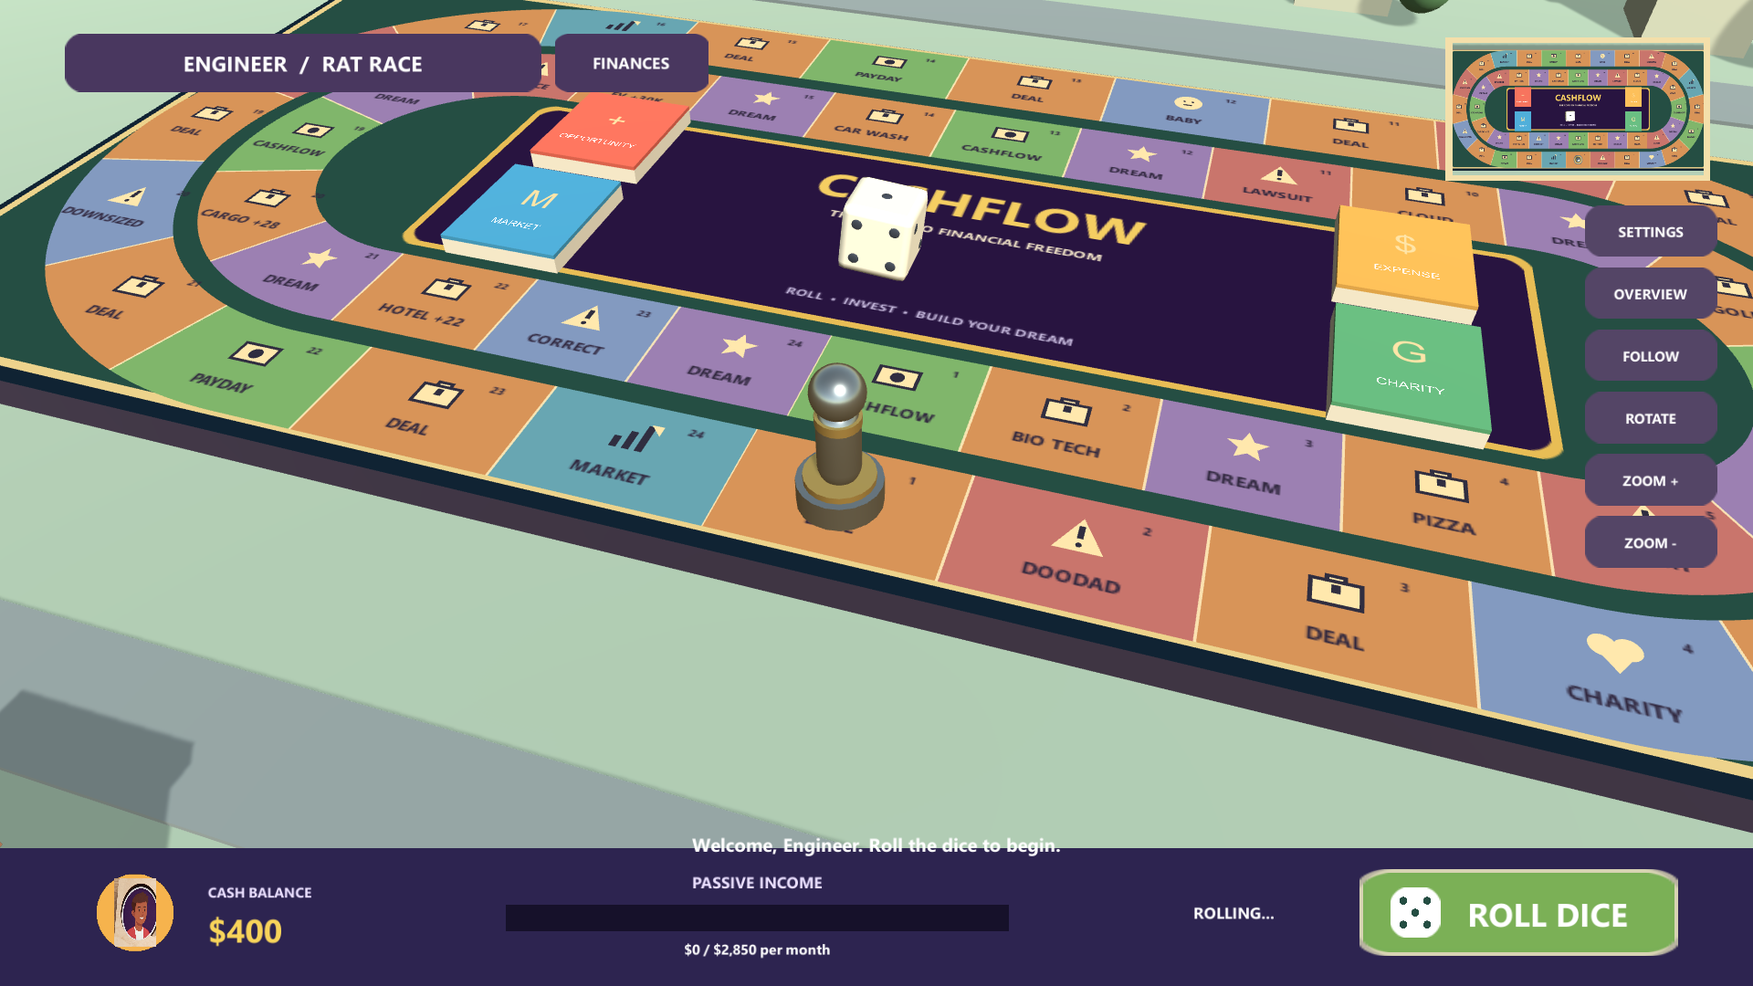
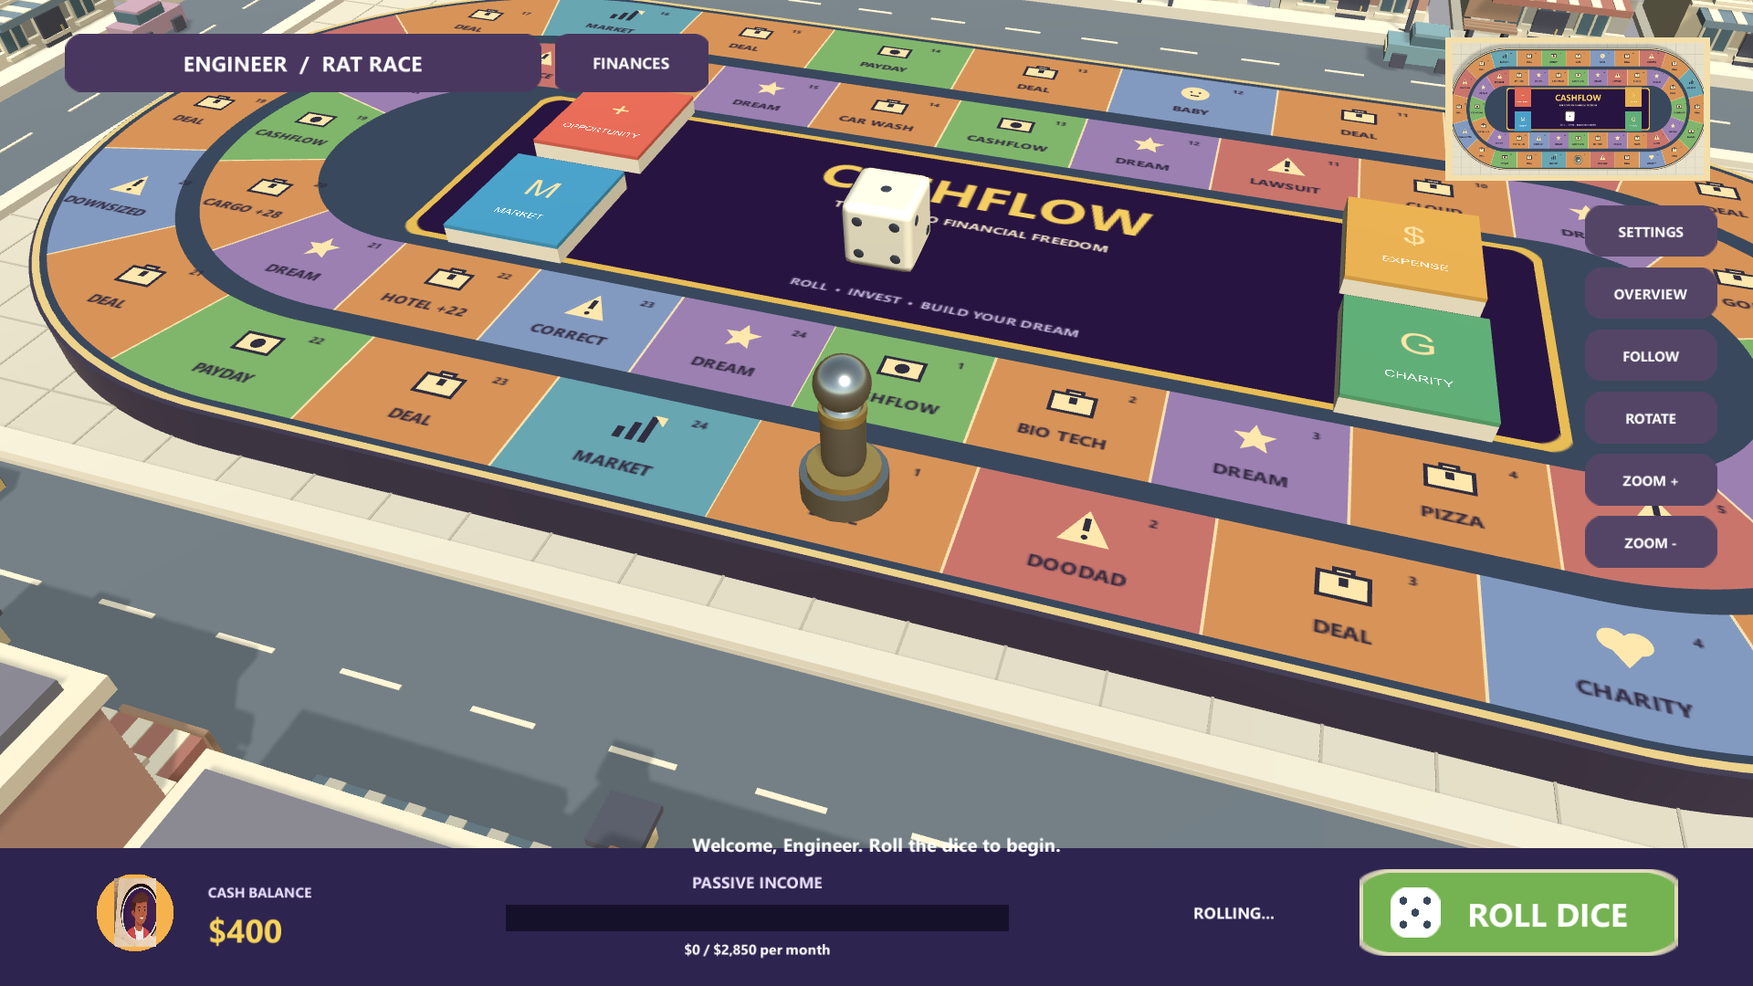
Update BoardReview and BoardWorld for improved camera handling and UI adjustments; add new outputs and README updates

diff --git a/Assets/Scripts/CashflowGame.cs b/Assets/Scripts/CashflowGame.cs
@@ -244,24 +244,28 @@ public class CashflowGame : MonoBehaviour
             Place(pip.GetComponent<RectTransform>(),dot.x,dot.y,6,6);
         }
         var rollLabel=roll.GetComponentInChildren<Text>(); Place(rollLabel.rectTransform,22,0,165,48);
-        diceResult=Label(bottom.transform,"READY TO ROLL",12); Place(diceResult.rectTransform,270,0,145,40);
-        string[] controls={"SETTINGS","OVERVIEW","FOLLOW","ROTATE","ZOOM +","ZOOM -"};
-        for(int i=0;i<controls.Length;i++)
-        {
-            int n=i;var control=Button(uiRoot,controls[i],C("#544566"),()=>{if(n==0)ShowBoardSettings();else if(n==1)world.SetOverview(true);else if(n==2)world.SetOverview(false);else if(n==3)world.Orbit(35);else world.Zoom(n==4?-.15f:.15f);});
-            Place(control.GetComponent<RectTransform>(),585,198-i*47,100,39);control.GetComponent<Image>().sprite=RoundedSprite();control.GetComponent<Image>().type=Image.Type.Sliced;SetButtonText(control,Color.white,11);
-        }
-        var map=Panel(uiRoot,new Vector2(.5f,.5f),new Vector2(.5f,.5f),new Vector2(200,108),C("#f4dfaa"));Place(map.GetComponent<RectTransform>(),530,290,200,108);
-        var image=new GameObject("Live minimap",typeof(RectTransform),typeof(RawImage),typeof(Button));image.transform.SetParent(map.transform,false);Stretch(image.GetComponent<RectTransform>());image.GetComponent<RawImage>().texture=world.OverviewTexture;image.GetComponent<Button>().onClick.AddListener(()=>world.SetOverview(true));
+        diceResult=Label(bottom.transform,"READY TO ROLL",12); Place(diceResult.rectTransform,285,0,140,40);
+        var settings=Button(bottom.transform,"SETTINGS",C("#544566"),ShowBoardSettings);
+        settings.gameObject.name="Board Settings Button";
+        Place(settings.GetComponent<RectTransform>(),160,0,100,52);
+        settings.GetComponent<Image>().sprite=RoundedSprite();
+        SetButtonText(settings,Color.white,12);
+
     }
     void ShowBoardSettings()
     {
-        var panel=Modal(new Vector2(440,330));
-        var title=Label(panel.transform,"BOARD SETTINGS",22);Place(title.rectTransform,0,120,400,36);
-        var sound=Button(panel.transform,world.Sound?"SOUND: ON":"SOUND: OFF",C("#544566"),()=>{});sound.onClick.AddListener(()=>{world.Sound=!world.Sound;sound.GetComponentInChildren<Text>().text=world.Sound?"SOUND: ON":"SOUND: OFF";});Place(sound.GetComponent<RectTransform>(),0,62,340,40);
-        var motion=Button(panel.transform,world.ReducedMotion?"REDUCED MOTION: ON":"REDUCED MOTION: OFF",C("#544566"),()=>{});motion.onClick.AddListener(()=>{world.ReducedMotion=!world.ReducedMotion;motion.GetComponentInChildren<Text>().text=world.ReducedMotion?"REDUCED MOTION: ON":"REDUCED MOTION: OFF";});Place(motion.GetComponent<RectTransform>(),0,10,340,40);
-        var scenery=Button(panel.transform,"SHOW / HIDE CITY",C("#544566"),()=>world.ToggleScenery());Place(scenery.GetComponent<RectTransform>(),0,-42,340,40);
-        var close=Button(panel.transform,"DONE",C("#69a747"),()=>CloseModal());Place(close.GetComponent<RectTransform>(),0,-110,180,44);
+        var panel=Modal(new Vector2(440,450));
+        var title=Label(panel.transform,"BOARD SETTINGS",22);Place(title.rectTransform,0,180,400,36);
+        var cameraTitle=Label(panel.transform,"CAMERA VIEW",13);Place(cameraTitle.rectTransform,0,133,340,24);
+        var overview=Button(panel.transform,world.Follow?"OVERVIEW":"OVERVIEW  •",C("#544566"),()=>{});
+        var follow=Button(panel.transform,world.Follow?"FOLLOW  •":"FOLLOW",C("#544566"),()=>{});
+        overview.onClick.AddListener(()=>{world.SetOverview(true);overview.GetComponentInChildren<Text>().text="OVERVIEW  •";follow.GetComponentInChildren<Text>().text="FOLLOW";});
+        follow.onClick.AddListener(()=>{world.SetOverview(false);overview.GetComponentInChildren<Text>().text="OVERVIEW";follow.GetComponentInChildren<Text>().text="FOLLOW  •";});
+        Place(overview.GetComponent<RectTransform>(),-88,94,164,44);Place(follow.GetComponent<RectTransform>(),88,94,164,44);
+        var sound=Button(panel.transform,world.Sound?"SOUND: ON":"SOUND: OFF",C("#544566"),()=>{});sound.onClick.AddListener(()=>{world.Sound=!world.Sound;sound.GetComponentInChildren<Text>().text=world.Sound?"SOUND: ON":"SOUND: OFF";});Place(sound.GetComponent<RectTransform>(),0,30,340,40);
+        var motion=Button(panel.transform,world.ReducedMotion?"REDUCED MOTION: ON":"REDUCED MOTION: OFF",C("#544566"),()=>{});motion.onClick.AddListener(()=>{world.ReducedMotion=!world.ReducedMotion;motion.GetComponentInChildren<Text>().text=world.ReducedMotion?"REDUCED MOTION: ON":"REDUCED MOTION: OFF";});Place(motion.GetComponent<RectTransform>(),0,-22,340,40);
+        var scenery=Button(panel.transform,"SHOW / HIDE CITY",C("#544566"),()=>world.ToggleScenery());Place(scenery.GetComponent<RectTransform>(),0,-74,340,40);
+        var close=Button(panel.transform,"DONE",C("#69a747"),()=>CloseModal());Place(close.GetComponent<RectTransform>(),0,-160,180,44);
     }
     GameObject Modal(Vector2 size)
     {

diff --git a/Assets/Editor/BoardReview.cs b/Assets/Editor/BoardReview.cs
@@ -13,7 +13,7 @@ public static class BoardReview
     static double next;
     static int step;
     static int retries;
-    static readonly int[,] sizes = { {1280,720}, {1920,1080}, {2340,1080}, {1024,768} };
+    static readonly int[,] sizes = { {1280,720}, {1920,1080}, {2532,1170}, {2340,1080}, {1024,768} };
     static string Folder => Path.GetFullPath("work/3d-review");
     static BoardReview() { EditorApplication.update += Tick; }
     [MenuItem("Cashflow/Review Board")]
@@ -37,7 +37,7 @@ public static class BoardReview
         {
             step = SessionState.GetInt("BoardReviewStep",0);
             if (step == 0) { SceneManager.LoadScene("GameBoard"); }
-            else if (step <= 8)
+            else if (step <= sizes.GetLength(0)*2)
             {
                 int i=(step-1)/2;
                 if (step%2==1) SetSize(sizes[i,0],sizes[i,1]);
@@ -49,6 +49,15 @@ public static class BoardReview
                         SetSize(sizes[i,0],sizes[i,1]); next=EditorApplication.timeSinceStartup+3; return;
                     }
                     retries=0;
+                    var camera=UnityEngine.Object.FindObjectOfType<BoardWorld>().View;
+                    if(camera.rect.x!=0||camera.rect.width!=1)throw new Exception("Camera does not fill screen width");
+                    for(int sample=0;sample<96;sample++)
+                    {
+                        var edge=BoardTrackGenerator.Point(sample/96f,267);
+                        var projected=camera.WorldToViewportPoint(new Vector3(edge.x*.01f,.16f,edge.y*.01f));
+                        if(projected.z<=0||projected.x<0||projected.x>1||projected.y<0||projected.y>1)throw new Exception("Board clipped at "+Screen.width+"x"+Screen.height);
+                    }
+
                     foreach(var scaler in UnityEngine.Object.FindObjectsOfType<UnityEngine.UI.CanvasScaler>())scaler.SendMessage("Update");
                     Canvas.ForceUpdateCanvases();
                     UnityEngine.Object.FindObjectOfType<SafeBoardLayout>().SendMessage("LateUpdate");
@@ -73,11 +82,11 @@ public static class BoardReview
                     File.AppendAllText(Path.Combine(Folder,"results.txt"),"PASS: "+Screen.width+"x"+Screen.height+"; 48 segments, shared seams, tile hit targets, HUD bounds.\n");
                 }
             }
-            else if(step==9)
+            else if(step==sizes.GetLength(0)*2+1)
             {
                 SetSize(1920,1080);UnityEngine.Object.FindObjectOfType<BoardWorld>().SetOverview(false);
             }
-            else if(step==10)
+            else if(step==sizes.GetLength(0)*2+2)
             {
                 ScreenCapture.CaptureScreenshot(Path.Combine(Folder,"follow-camera.png"));
                 var game=UnityEngine.Object.FindObjectOfType<CashflowGame>();
@@ -89,14 +98,14 @@ public static class BoardReview
                 if((bool)typeof(CashflowGame).GetField("rolling",flags).GetValue(game)){if(++retries>12)throw new Exception("Roll did not finish");next=EditorApplication.timeSinceStartup+2;return;}
                 int position=(int)typeof(CashflowGame).GetField("position",flags).GetValue(game);
                 var world=UnityEngine.Object.FindObjectOfType<BoardWorld>();
-                if(world.DiceTotal<(step==11?1:2)||world.DiceTotal>(step==11?6:12))throw new Exception("Dice result invalid");
-                if(world.Overview.targetTexture==null||!world.Overview.targetTexture.IsCreated())throw new Exception("Live minimap unavailable");
+                if(world.DiceTotal<(step==sizes.GetLength(0)*2+3?1:2)||world.DiceTotal>(step==sizes.GetLength(0)*2+3?6:12))throw new Exception("Dice result invalid");
+                if(GameObject.Find("Live minimap")!=null)throw new Exception("Minimap was not removed");
                 int sum=0;foreach(var die in UnityEngine.Object.FindObjectsOfType<BoardDie>())sum+=die.Value;
                 if(sum!=world.DiceTotal)throw new Exception("Visible dice do not match gameplay total");
                 if(Vector3.Distance(world.Pawn.position,BoardWorld.TrackPoint(position,false))>.01f)throw new Exception("3D pawn does not match landed space");
-                if(step==11)
+                if(step==sizes.GetLength(0)*2+3)
                 {
-                    File.AppendAllText(Path.Combine(Folder,"results.txt"),"PASS: single physical die, animated pawn landing, follow camera and live minimap.\n");
+                    File.AppendAllText(Path.Combine(Folder,"results.txt"),"PASS: single physical die, animated pawn landing, follow camera; minimap removed.\n");
                     typeof(CashflowGame).GetMethod("ShowBoardSettings",flags).Invoke(game,null);
                     typeof(CashflowGame).GetMethod("Roll",flags).Invoke(game,null);
                     if((bool)typeof(CashflowGame).GetField("rolling",flags).GetValue(game))throw new Exception("Modal did not block rolling");

diff --git a/work/update-mobile.py b/work/update-mobile.py
@@ -1,0 +1,60 @@
+from pathlib import Path
+p=Path('Assets/Scripts/BoardWorld.cs'); s=p.read_text()
+s=s.replace('    public Camera Overview { get; private set; }\n    public RenderTexture OverviewTexture { get; private set; }\n','')
+a=s.index('        Overview=new GameObject'); b=s.index('        audioSource=',a); s=s[:a]+s[b:]
+s=s.replace('        if(OverviewTexture!=null){OverviewTexture.Release();Destroy(OverviewTexture);}\n','')
+a=s.index('        Rect safe=Screen.safeArea;',s.index('void UpdateCamera')); b=s.index('        Vector3 target=',a)
+s=s[:a]+'''        // Render scenery edge to edge; only interactive HUD elements use the safe area.
+        View.rect=new Rect(0,.14f,1,.86f);
+'''+s[b:]
+s=s.replace('Mathf.Max(9.7f,6.4f/(Mathf.Tan(View.fieldOfView*Mathf.Deg2Rad/2)*View.aspect))','OverviewDistance()')
+a=s.index('    public void PlacePawn')
+s=s[:a]+'''    float OverviewDistance()
+    {
+        // Fit the actual curved perimeter in perspective at any aspect and orbit angle.
+        float tanV=Mathf.Tan(View.fieldOfView*Mathf.Deg2Rad/2)*.94f;
+        float tanH=tanV*View.aspect;
+        Quaternion inverse=Quaternion.Inverse(Quaternion.Euler(pitch,yaw,0));
+        float distance=0;
+        for(int i=0;i<96;i++)
+        {
+            Vector2 edge=BoardTrackGenerator.Point(i/96f,267);
+            Vector3 p=inverse*new Vector3(edge.x*.01f,.16f,edge.y*.01f);
+            distance=Mathf.Max(distance,Mathf.Abs(p.x)/tanH-p.z,Mathf.Abs(p.y)/tanV-p.z);
+        }
+        return distance;
+    }
+'''+s[a:]; p.write_text(s)
+p=Path('Assets/Scripts/CashflowGame.cs'); s=p.read_text(); a=s.index('        string[] controls='); b=s.index('\n    }\n    void ShowBoardSettings',a)
+s=s[:a]+'''        var settings=Button(bottom.transform,"SETTINGS",C("#544566"),ShowBoardSettings);
+        settings.gameObject.name="Board Settings Button";
+        Place(settings.GetComponent<RectTransform>(),160,0,100,52);
+        settings.GetComponent<Image>().sprite=RoundedSprite();
+        SetButtonText(settings,Color.white,12);
+'''+s[b:]
+s=s.replace('270,0,145,40','285,0,140,40')
+s=s.replace('Modal(new Vector2(440,330))','Modal(new Vector2(440,450))').replace('0,120,400,36','0,180,400,36')
+s=s.replace('        var sound=Button(panel.transform', '''        var cameraTitle=Label(panel.transform,"CAMERA VIEW",13);Place(cameraTitle.rectTransform,0,133,340,24);
+        var overview=Button(panel.transform,world.Follow?"OVERVIEW":"OVERVIEW  •",C("#544566"),()=>{});
+        var follow=Button(panel.transform,world.Follow?"FOLLOW  •":"FOLLOW",C("#544566"),()=>{});
+        overview.onClick.AddListener(()=>{world.SetOverview(true);overview.GetComponentInChildren<Text>().text="OVERVIEW  •";follow.GetComponentInChildren<Text>().text="FOLLOW";});
+        follow.onClick.AddListener(()=>{world.SetOverview(false);overview.GetComponentInChildren<Text>().text="OVERVIEW";follow.GetComponentInChildren<Text>().text="FOLLOW  •";});
+        Place(overview.GetComponent<RectTransform>(),-88,94,164,44);Place(follow.GetComponent<RectTransform>(),88,94,164,44);
+        var sound=Button(panel.transform''')
+s=s.replace('0,62,340,40','0,30,340,40').replace('0,10,340,40','0,-22,340,40').replace('0,-42,340,40','0,-74,340,40').replace('0,-110,180,44','0,-160,180,44'); p.write_text(s)
+p=Path('Assets/Editor/BoardReview.cs'); s=p.read_text().replace('{2340,1080}, {1024,768}','{2532,1170}, {2340,1080}, {1024,768}')
+s=s.replace('step <= 8','step <= sizes.GetLength(0)*2').replace('step==9','step==sizes.GetLength(0)*2+1').replace('step==10','step==sizes.GetLength(0)*2+2').replace('step==11','step==sizes.GetLength(0)*2+3')
+s=s.replace('                if(world.Overview.targetTexture==null||!world.Overview.targetTexture.IsCreated())throw new Exception("Live minimap unavailable");','                if(GameObject.Find("Live minimap")!=null)throw new Exception("Minimap was not removed");')
+s=s.replace('follow camera and live minimap','follow camera; minimap removed')
+needle='                    retries=0;'
+s=s.replace(needle,needle+'''
+                    var camera=UnityEngine.Object.FindObjectOfType<BoardWorld>().View;
+                    if(camera.rect.x!=0||camera.rect.width!=1)throw new Exception("Camera does not fill screen width");
+                    for(int sample=0;sample<96;sample++)
+                    {
+                        var edge=BoardTrackGenerator.Point(sample/96f,267);
+                        var projected=camera.WorldToViewportPoint(new Vector3(edge.x*.01f,.16f,edge.y*.01f));
+                        if(projected.z<=0||projected.x<0||projected.x>1||projected.y<0||projected.y>1)throw new Exception("Board clipped at "+Screen.width+"x"+Screen.height);
+                    }
+''',1)
+p.write_text(s)

diff --git a/Assets/Scripts/BoardWorld.cs b/Assets/Scripts/BoardWorld.cs
@@ -8,8 +8,6 @@ using UnityEngine.UI;
 public sealed class BoardWorld : MonoBehaviour
 {
     public Camera View { get; private set; }
-    public Camera Overview { get; private set; }
-    public RenderTexture OverviewTexture { get; private set; }
     public Transform Pawn { get; private set; }
     public int DiceTotal { get; private set; }
     public bool Follow { get; private set; }
@@ -65,10 +63,6 @@ public sealed class BoardWorld : MonoBehaviour
         Box("Stone foundation",new Vector3(0,-.4f,0),new Vector3(70,.4f,70),Mat("#b6b0c1"));
         BuildScenery(); BuildDecks(); BuildPawn();
         for(int i=0;i<2;i++) { var d=new GameObject("Die "+(i+1)).AddComponent<BoardDie>(); d.transform.SetParent(transform,false); d.Build(Mat("#fff9e9",0,.32f),Mat("#20283a",.1f,.2f)); d.transform.position=new Vector3((i==0?-.38f:.38f),.4f,-.3f); dice.Add(d); }
-        Overview=new GameObject("Live overview camera").AddComponent<Camera>(); Overview.transform.SetParent(transform,false);
-        Overview.transform.position=new Vector3(0,14,0); Overview.transform.rotation=Quaternion.Euler(90,0,0);
-        Overview.orthographic=true; Overview.orthographicSize=2.9f; Overview.clearFlags=CameraClearFlags.SolidColor; Overview.backgroundColor=Hex("#ded4c4");
-        OverviewTexture=new RenderTexture(640,320,16){name="Live board overview",antiAliasing=2}; Overview.targetTexture=OverviewTexture;
         audioSource=gameObject.AddComponent<AudioSource>(); audioSource.spatialBlend=0;
         clack=AudioClip.Create("Dice clack",2205,1,22050,false); var samples=new float[2205];
         for(int i=0;i<samples.Length;i++)samples[i]=Mathf.Sin(i*1.17f)*Mathf.Exp(-i/180f)*.25f; clack.SetData(samples,0);
@@ -153,16 +147,30 @@ public sealed class BoardWorld : MonoBehaviour
     void LateUpdate(){if(View!=null)UpdateCamera(ReducedMotion);}
     void UpdateCamera(bool instant)
     {
-        Rect safe=Screen.safeArea;
-        if(safe.width<=0||safe.height<=0||safe.xMax>Screen.width||safe.yMax>Screen.height)safe=new Rect(0,0,Screen.width,Screen.height);
-        View.rect=new Rect(safe.x/Screen.width,safe.y/Screen.height+.14f*safe.height/Screen.height,safe.width/Screen.width,.86f*safe.height/Screen.height);
+        // Render scenery edge to edge; only interactive HUD elements use the safe area.
+        View.rect=new Rect(0,.14f,1,.86f);
         Vector3 target=Busy?Vector3.zero:Follow?Pawn.position+new Vector3(0,0,.35f):Vector3.zero;
         focus=instant?target:Vector3.Lerp(focus,target,1-Mathf.Exp(-Time.unscaledDeltaTime*5));
-        float distance=Busy?6.8f:Follow?5.8f:Mathf.Max(9.7f,6.4f/(Mathf.Tan(View.fieldOfView*Mathf.Deg2Rad/2)*View.aspect));
+        float distance=Busy?6.8f:Follow?5.8f:OverviewDistance();
         Vector3 offset=Quaternion.Euler(pitch,yaw,0)*new Vector3(0,0,-distance*zoom);
         Vector3 desired=focus+offset;
         View.transform.position=instant?desired:Vector3.Lerp(View.transform.position,desired,1-Mathf.Exp(-Time.unscaledDeltaTime*6));
         View.transform.LookAt(focus);
+    }
+    float OverviewDistance()
+    {
+        // Fit the actual curved perimeter in perspective at any aspect and orbit angle.
+        float tanV=Mathf.Tan(View.fieldOfView*Mathf.Deg2Rad/2)*.94f;
+        float tanH=tanV*View.aspect;
+        Quaternion inverse=Quaternion.Inverse(Quaternion.Euler(pitch,yaw,0));
+        float distance=0;
+        for(int i=0;i<96;i++)
+        {
+            Vector2 edge=BoardTrackGenerator.Point(i/96f,267);
+            Vector3 p=inverse*new Vector3(edge.x*.01f,.16f,edge.y*.01f);
+            distance=Mathf.Max(distance,Mathf.Abs(p.x)/tanH-p.z,Mathf.Abs(p.y)/tanV-p.z);
+        }
+        return distance;
     }
     public void PlacePawn(int p,bool fast){Pawn.position=TrackPoint(p,fast);}
     public IEnumerator MovePawn(int from,int steps,bool fast)
@@ -198,7 +206,6 @@ public sealed class BoardWorld : MonoBehaviour
     void OnDestroy()
     {
         foreach(var m in materials)if(m!=null)Destroy(m);
-        if(OverviewTexture!=null){OverviewTexture.Release();Destroy(OverviewTexture);}
         if(clack!=null)Destroy(clack);
         if(boardBase!=null)Destroy(boardBase);
     }

diff --git a/work/update-mobile-rest.py b/work/update-mobile-rest.py
@@ -1,0 +1,35 @@
+from pathlib import Path
+p=Path('Assets/Scripts/CashflowGame.cs'); s=p.read_text(encoding="utf-8"); a=s.index('        string[] controls='); b=s.index('\n    }\n    void ShowBoardSettings',a)
+s=s[:a]+'''        var settings=Button(bottom.transform,"SETTINGS",C("#544566"),ShowBoardSettings);
+        settings.gameObject.name="Board Settings Button";
+        Place(settings.GetComponent<RectTransform>(),160,0,100,52);
+        settings.GetComponent<Image>().sprite=RoundedSprite();
+        SetButtonText(settings,Color.white,12);
+'''+s[b:]
+s=s.replace('270,0,145,40','285,0,140,40')
+s=s.replace('Modal(new Vector2(440,330))','Modal(new Vector2(440,450))').replace('0,120,400,36','0,180,400,36')
+s=s.replace('        var sound=Button(panel.transform', '''        var cameraTitle=Label(panel.transform,"CAMERA VIEW",13);Place(cameraTitle.rectTransform,0,133,340,24);
+        var overview=Button(panel.transform,world.Follow?"OVERVIEW":"OVERVIEW  •",C("#544566"),()=>{});
+        var follow=Button(panel.transform,world.Follow?"FOLLOW  •":"FOLLOW",C("#544566"),()=>{});
+        overview.onClick.AddListener(()=>{world.SetOverview(true);overview.GetComponentInChildren<Text>().text="OVERVIEW  •";follow.GetComponentInChildren<Text>().text="FOLLOW";});
+        follow.onClick.AddListener(()=>{world.SetOverview(false);overview.GetComponentInChildren<Text>().text="OVERVIEW";follow.GetComponentInChildren<Text>().text="FOLLOW  •";});
+        Place(overview.GetComponent<RectTransform>(),-88,94,164,44);Place(follow.GetComponent<RectTransform>(),88,94,164,44);
+        var sound=Button(panel.transform''')
+s=s.replace('0,62,340,40','0,30,340,40').replace('0,10,340,40','0,-22,340,40').replace('0,-42,340,40','0,-74,340,40').replace('0,-110,180,44','0,-160,180,44'); p.write_text(s,encoding="utf-8")
+p=Path('Assets/Editor/BoardReview.cs'); s=p.read_text(encoding="utf-8").replace('{2340,1080}, {1024,768}','{2532,1170}, {2340,1080}, {1024,768}')
+s=s.replace('step <= 8','step <= sizes.GetLength(0)*2').replace('step==9','step==sizes.GetLength(0)*2+1').replace('step==10','step==sizes.GetLength(0)*2+2').replace('step==11','step==sizes.GetLength(0)*2+3')
+s=s.replace('                if(world.Overview.targetTexture==null||!world.Overview.targetTexture.IsCreated())throw new Exception("Live minimap unavailable");','                if(GameObject.Find("Live minimap")!=null)throw new Exception("Minimap was not removed");')
+s=s.replace('follow camera and live minimap','follow camera; minimap removed')
+needle='                    retries=0;'
+s=s.replace(needle,needle+'''
+                    var camera=UnityEngine.Object.FindObjectOfType<BoardWorld>().View;
+                    if(camera.rect.x!=0||camera.rect.width!=1)throw new Exception("Camera does not fill screen width");
+                    for(int sample=0;sample<96;sample++)
+                    {
+                        var edge=BoardTrackGenerator.Point(sample/96f,267);
+                        var projected=camera.WorldToViewportPoint(new Vector3(edge.x*.01f,.16f,edge.y*.01f));
+                        if(projected.z<=0||projected.x<0||projected.x>1||projected.y<0||projected.y>1)throw new Exception("Board clipped at "+Screen.width+"x"+Screen.height);
+                    }
+''',1)
+p.write_text(s,encoding="utf-8")
+

diff --git a/outputs/3d/README.md b/outputs/3d/README.md
@@ -22,3 +22,6 @@ Cashflow > Review Board runs the editor checks and writes captures/results to wo
 This is an original procedural 3D presentation based on the supplied video. Physical-device performance and touch behavior have not been tested on Android hardware.
 
 The ZIP contains the complete Assets, Packages and ProjectSettings folders plus this README; generated Library and temporary files are excluded. The original project already contains the changes; no archive import is required on this computer.
+
+## Environment update
+The board now has a track-shaped physical base and narrow gold rim, removing the old filled rectangular corners. Slate replaces the green surround. The flat green ground and sphere trees have been replaced by a batched city plaza with stone paving, sidewalks, crosswalks, lane markings, pastel storefronts, striped awnings, windows, roof details, cars, lamps and benches. BoardEnvironment builds the scenery; BoardPlateGraphic supplies the curved perimeter. The four-resolution and one-/two-dice regression checks passed after these changes.
